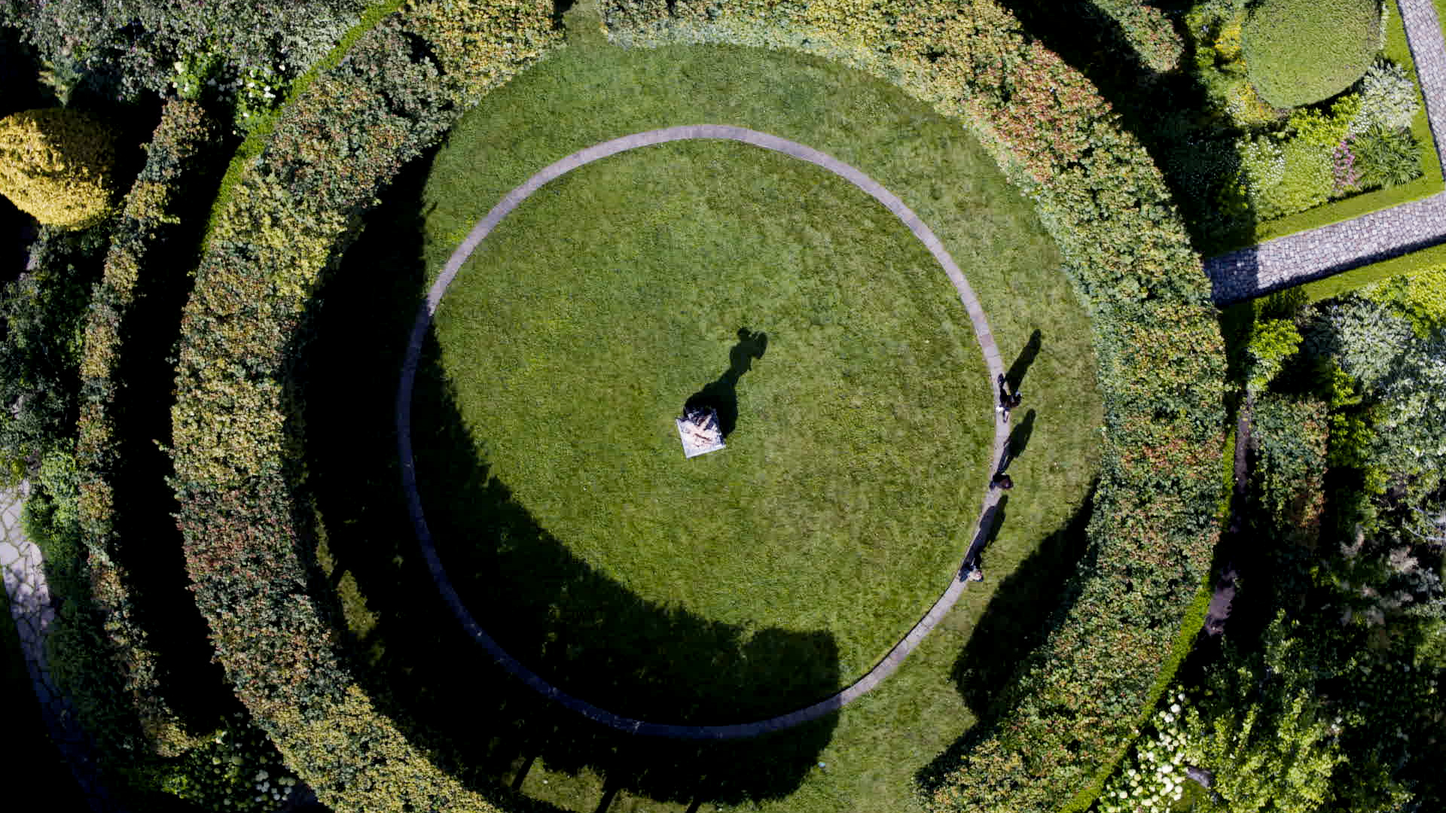
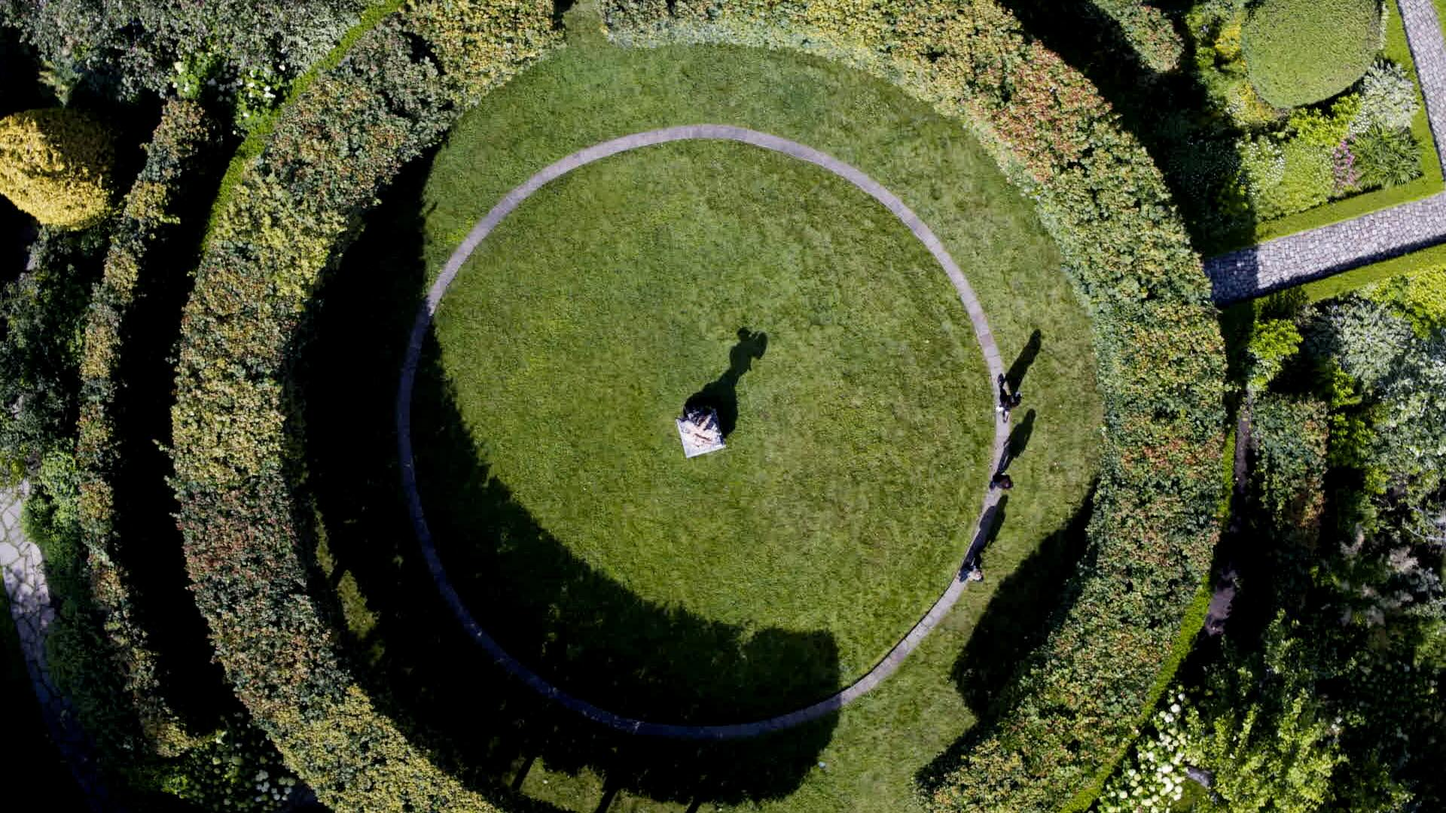
optimize images

Changed region(s): [[0.9688, 0.3361, 1.0, 0.3667], [0.9062, 0.1528, 0.9375, 0.1833], [0.875, 0.3972, 0.9062, 0.4278]]

diff --git a/app/projects/dream/page.tsx b/app/projects/dream/page.tsx
@@ -23,7 +23,7 @@ export default function DreamPage() {
       <section className="project-intro">
 
         <img
-          src="/images/dream/hero-shot.png"
+          src="/images/dream/hero-shot.jpg"
           alt="Dream"
           className="project-intro-image"
         />
@@ -45,8 +45,8 @@ export default function DreamPage() {
       {/* FIRST ROW */}
 
       <div className="screenshots-grid">
-        <img src="/images/dream/dark.jpg" alt="" />
-        <img src="/images/dream/light.jpg" alt="" />
+        <img src="/images/dream/dark.jpg" alt="" loading="lazy" />
+        <img src="/images/dream/light.jpg" alt="" loading="lazy" />
       </div>
 
       {/* FULL WIDTH IMAGE */}
@@ -60,8 +60,8 @@ export default function DreamPage() {
       {/* SECOND ROW */}
 
       <div className="screenshots-grid">
-        <img src="/images/dream/morning.jpg" alt="" />
-        <img src="/images/dream/phone.jpg" alt="" />
+        <img src="/images/dream/morning.jpg" alt="" loading="lazy" />
+        <img src="/images/dream/phone.jpg" alt="" loading="lazy" />
       </div>
 
     </main>

diff --git a/app/projects/doc/page.tsx b/app/projects/doc/page.tsx
@@ -38,14 +38,14 @@ export default function DreamPage() {
       {/* FIRST ROW */}
 
       <div className="screenshots-grid">
-        <img src="/images/doc/radiation.jpg" alt="" />
-        <img src="/images/doc/cave.jpg" alt="" />
+        <img src="/images/doc/radiation.jpg" alt="" loading="lazy"/>
+        <img src="/images/doc/cave.jpg" alt="" loading="lazy"/>
       </div>
 
       {/* FULL WIDTH IMAGE */}
 
       <img
-        src="/images/doc/poster.png"
+        src="/images/doc/poster.jpg"
         alt="doc"
         className="full-width-shot"
       />
@@ -53,8 +53,8 @@ export default function DreamPage() {
       {/* SECOND ROW */}
 
       <div className="screenshots-grid">
-        <img src="/images/doc/device.jpg" alt="" />
-        <img src="/images/doc/f.jpg" alt="" />
+        <img src="/images/doc/device.jpg" alt="" loading="lazy" />
+        <img src="/images/doc/f.jpg" alt="" loading="lazy" />
       </div>
 
     </main>

diff --git a/app/projects/lime/page.tsx b/app/projects/lime/page.tsx
@@ -41,8 +41,8 @@ export default function LimePage() {
       {/* FIRST ROW */}
 
       <div className="screenshots-grid">
-        <img src="/images/lime/sleep.jpg" alt="" />
-        <img src="/images/lime/twins.jpg" alt="" />
+        <img src="/images/lime/sleep.jpg" alt="" loading="lazy" />
+        <img src="/images/lime/twins.jpg" alt="" loading="lazy" />
       </div>
 
       {/* FULL WIDTH HERO SHOT */}
@@ -56,8 +56,8 @@ export default function LimePage() {
       {/* SECOND ROW */}
 
       <div className="screenshots-grid">
-        <img src="/images/lime/fish.jpg" alt="" />
-        <img src="/images/lime/drone.jpg" alt="" />
+        <img src="/images/lime/fish.jpg" alt="" loading="lazy" />
+        <img src="/images/lime/drone.jpg" alt="" loading="lazy" />
       </div>
 
     </main>

diff --git a/app/projects/ny/page.tsx b/app/projects/ny/page.tsx
@@ -45,8 +45,8 @@ export default function DreamPage() {
       {/* FIRST ROW */}
 
       <div className="screenshots-grid">
-        <img src="/images/ny/city.jpg" alt="" />
-        <img src="/images/ny/ring.jpg" alt="" />
+        <img src="/images/ny/city.jpg" alt="" loading="lazy" />
+        <img src="/images/ny/ring.jpg" alt="" loading="lazy" />
       </div>
 
       {/* FULL WIDTH IMAGE */}
@@ -60,8 +60,8 @@ export default function DreamPage() {
       {/* SECOND ROW */}
 
       <div className="screenshots-grid">
-        <img src="/images/ny/alone.jpg" alt="" />
-        <img src="/images/ny/ny.jpg" alt="" />
+        <img src="/images/ny/alone.jpg" alt="" loading="lazy" />
+        <img src="/images/ny/ny.jpg" alt="" loading="lazy" />
       </div>
 
     </main>

diff --git a/app/projects/pavel/page.tsx b/app/projects/pavel/page.tsx
@@ -1,9 +1,9 @@
 export default function PavelPage() {
   const screenshots = [
-    "/images/pavel/guitar.png",
-    "/images/pavel/close-up.png",
-    "/images/pavel/medium-close-up.png",
-    "/images/pavel/wide-shot.png",
+    "/images/pavel/guitar.jpg",
+    "/images/pavel/close-up.jpg",
+    "/images/pavel/medium-close-up.jpg",
+    "/images/pavel/wide-shot.jpg",
   ]
 
   return (
@@ -25,7 +25,7 @@ export default function PavelPage() {
       <section className="project-intro">
 
         <img
-          src="/images/pavel/hero-shot.png"
+          src="/images/pavel/hero-shot.jpg"
           alt="Pavel Fakhrtdinov"
           className="project-intro-image"
         />

diff --git a/app/projects/musia/page.tsx b/app/projects/musia/page.tsx
@@ -1,9 +1,9 @@
 export default function MusiaPage() {
   const screenshots = [
-    "/images/musia/room.png",
-    "/images/musia/drums.png",
+    "/images/musia/room.jpg",
+    "/images/musia/drums.jpg",
     "/images/musia/face.jpg",
-    "/images/musia/golden.png",
+    "/images/musia/golden.jpg",
   ]
 
   return (
@@ -23,7 +23,7 @@ export default function MusiaPage() {
       <section className="project-intro">
 
         <img
-          src="/images/musia/hero-shot.png"
+          src="/images/musia/hero-shot.jpg"
           alt="Musia Totibadze"
           className="project-intro-image"
         />
